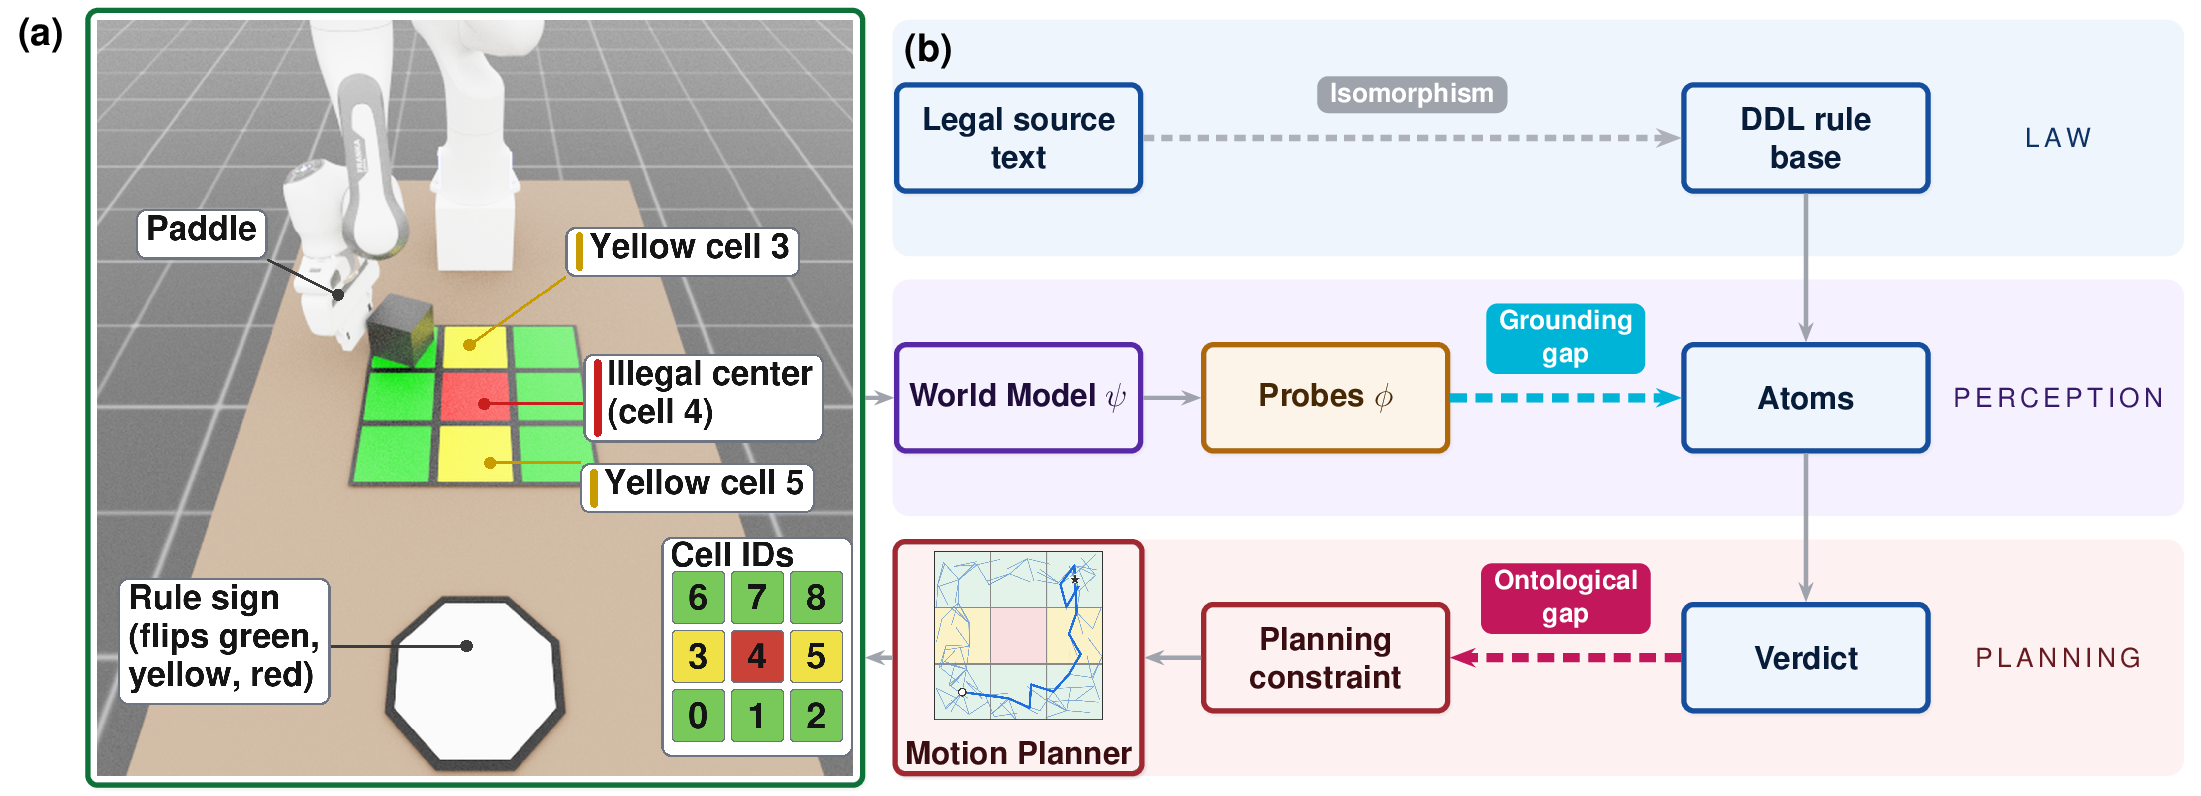
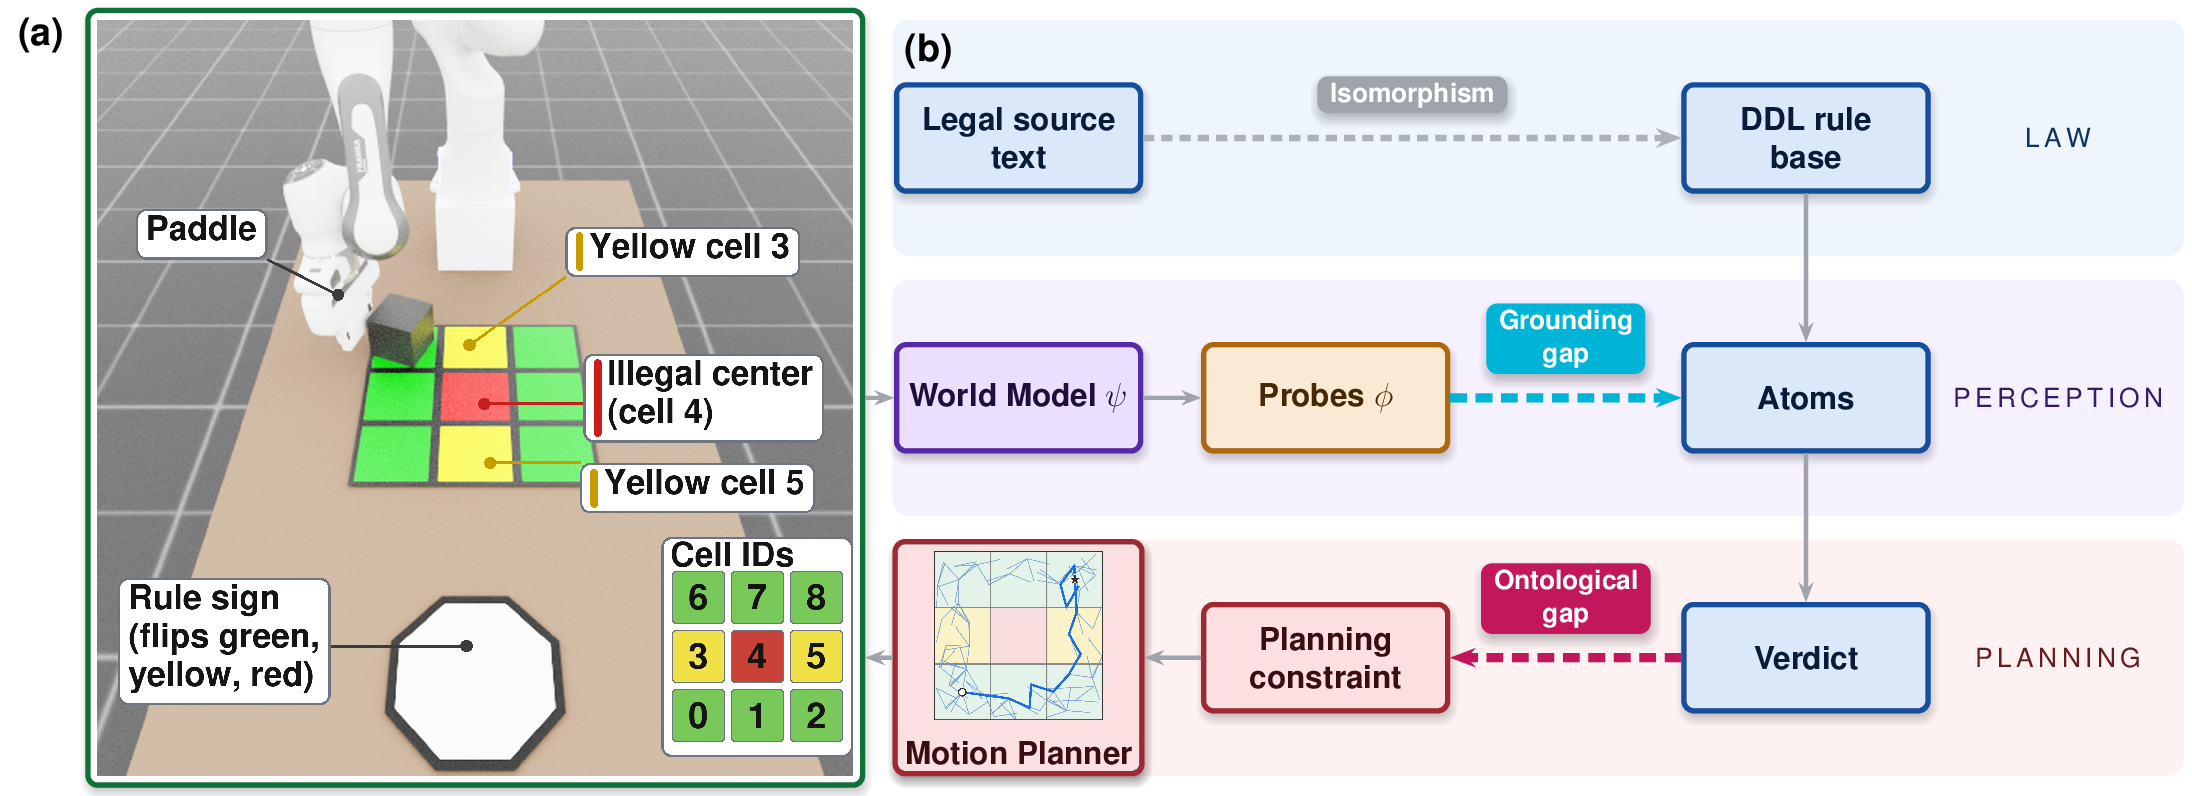
spotlight

diff --git a/docs/index.html b/docs/index.html
@@ -237,36 +237,6 @@
   </ul>
 </header>
 
-<!-- ============ TEMPORARY: Figure 1 style options ============
-     Rendered by src/scripts/video/fig1_style_options.py. Remove this section once a direction is
-     picked; the images are docs/assets/fig1_style_[abc].png. -->
-<section id="styleopts" style="margin-bottom:48px;">
-  <p class="eyebrow">Work in progress</p>
-  <h2 style="margin-bottom:6px;">Figure 1 style options</h2>
-  <p class="lede">Identical figure in all three. Only two things vary: how strongly the cards are
-     filled, and whether the drop shadow is actually visible. Scratch section, not part of the
-     paper page.</p>
-
-  <figure data-reveal="rise">
-    <div class="frame"><img src="assets/fig1_style_a.png" alt="Figure 1, current style."></div>
-    <figcaption><b>A &mdash; today.</b> Card fills are 7&ndash;9% tints, so every card is
-      effectively white, and the blur shadow is set to opacity 13 with sub-pixel offsets &mdash;
-      invisible at any size. That is what reads as flat.</figcaption>
-  </figure>
-
-  <figure data-reveal="rise">
-    <div class="frame"><img src="assets/fig1_style_b.png" alt="Figure 1, stronger fills and a visible shadow."></div>
-    <figcaption><b>B &mdash; fills and shadow.</b> Fills raised to 16&ndash;18%, shadow opacity
-      13&nbsp;&rarr;&nbsp;30 with a real offset and blur. Nothing else moves.</figcaption>
-  </figure>
-
-  <figure data-reveal="rise">
-    <div class="frame"><img src="assets/fig1_style_c.png" alt="Figure 1, strongest fills, borders and text."></div>
-    <figcaption><b>C &mdash; maximum separation.</b> Fills 24&ndash;26%, shadow opacity 38, borders
-      1.8&nbsp;&rarr;&nbsp;2.5&nbsp;pt, and darker label text.</figcaption>
-  </figure>
-</section>
-
 <!-- ============ HERO: pipeline explainer ============
      Built by src/scripts/video/ (gitignored). Rebuild with:  python scripts/video/assemble.py -->
 <video controls playsinline muted loop preload="metadata" poster="assets/fig1_pipeline.png"
